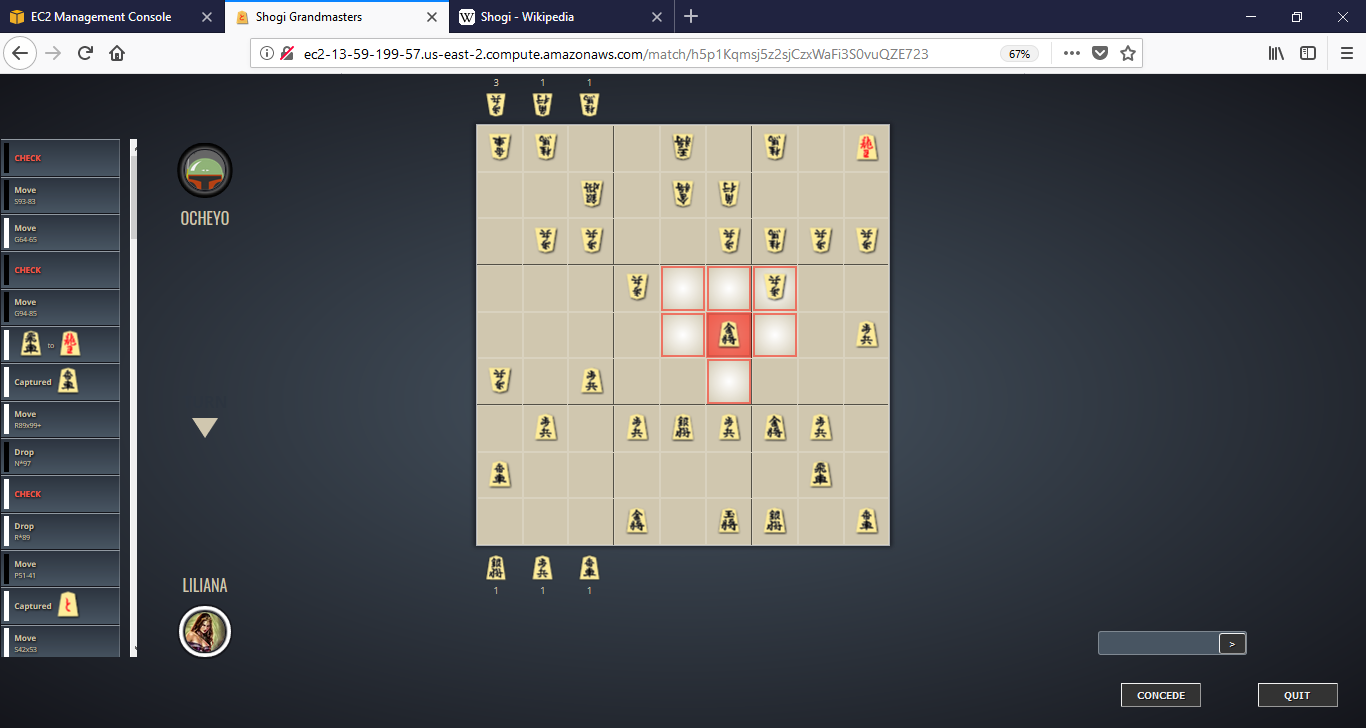
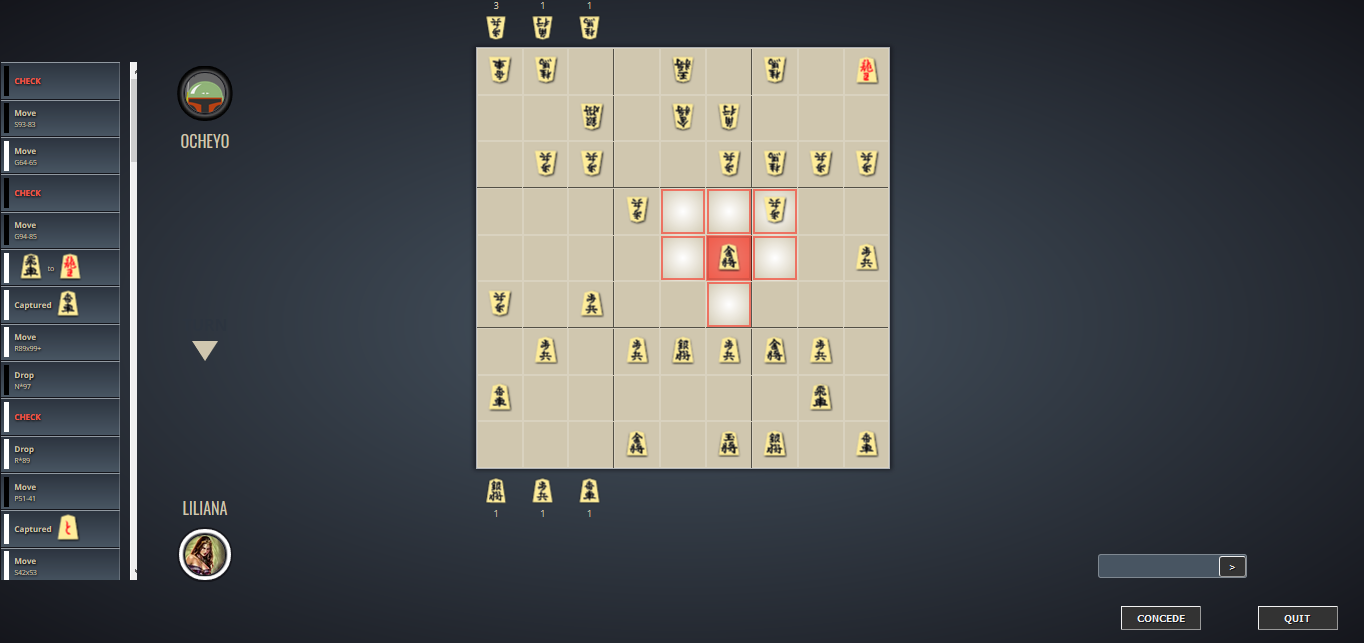
fix picture size

diff --git a/index.html b/index.html
@@ -63,13 +63,13 @@
     </tr>
     <tr class="screenshots">
       <td>
-        <img src="images/redidit-comment-screenshot.png" alt="screenshot">
+        <img src="images/redidit-comment-screenshot.PNG" alt="screenshot">
       </td>
       <td>
-        <img src="images/decklist-screenshot.png" alt="screenshot">
+        <img src="images/decklist-screenshot.PNG" alt="screenshot">
       </td>
       <td>
-        <img src="images/gameboard-screenshot.png" alt="screenshot">
+        <img src="images/gameboard-screenshot.PNG" alt="screenshot">
       </td>
     </tr>
   </table>

diff --git a/styles.css b/styles.css
@@ -26,6 +26,10 @@ td {
   height: 75px;
 }
 
+.screenshots {
+  overflow: hidden;
+}
+
 .screenshots img {
   width: inherit;
   height: inherit;
